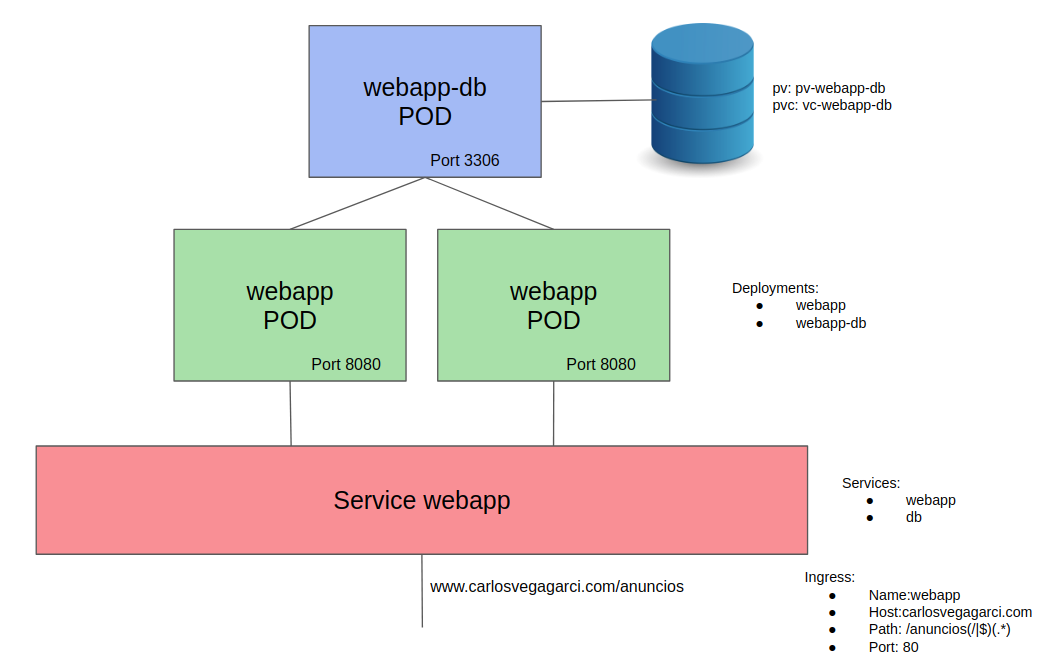
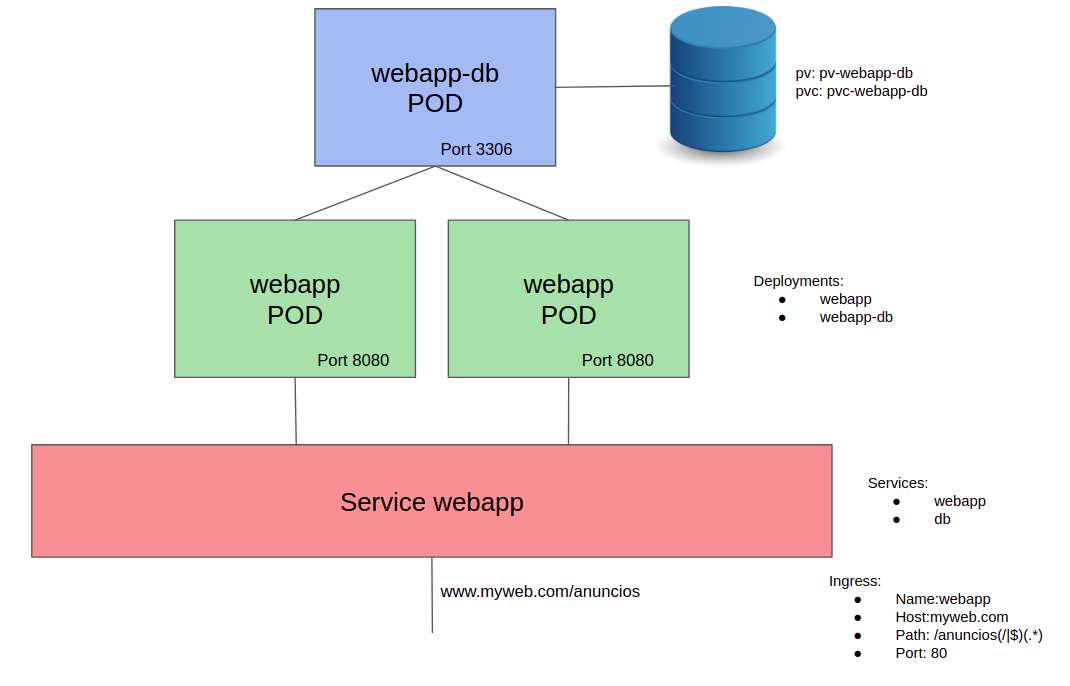
Finishes app

diff --git a/README.md b/README.md
@@ -8,10 +8,11 @@ This repo contains two possible ways to deploy the advertisements WebApp, with K
 ## Steps to deploy the APP:
 
 Common previous steps:
-* Run command to be able to translate www.carlosvegagarci.com domain name in Linux:
+* Run command to be able to translate www.myweb.com domain name in Linux:
 
 ~~~
-echo $MINIKUBE_IP www.carlosvegagarci.com | sudo tee --append /etc/hosts > /dev/null
+export MINIKUBE_IP=$(minikube ip)
+echo $MINIKUBE_IP www.myweb.com | sudo tee --append /etc/hosts > /dev/null
 ~~~
 
 * Create required folder /mnt/data in minikube node:
@@ -32,7 +33,7 @@ helm install webapp --name webapp
 ~~~
     
 ## The application is available in:
-* www.carlosvegagarci.com/anuncios
+* www.myweb.com/anuncios
 
 ## Steps to stop the APP
 * Options:
